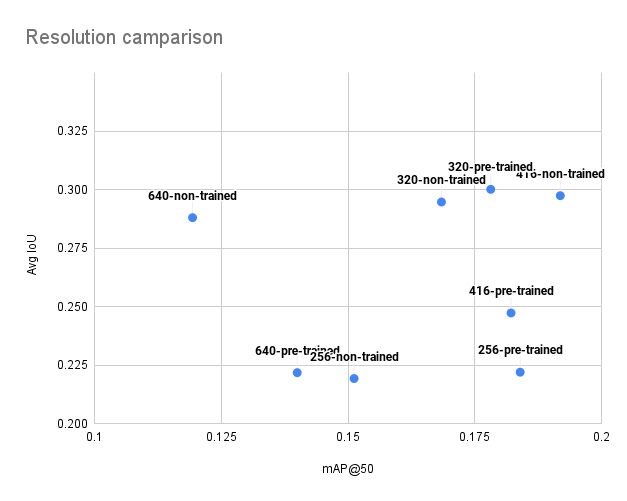
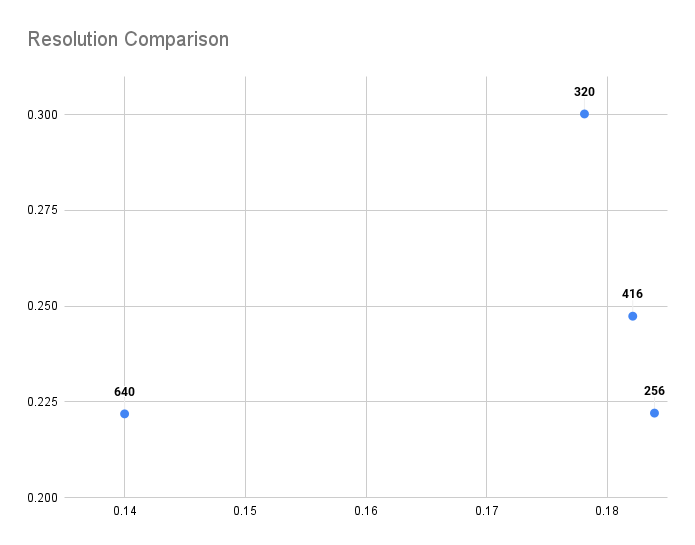
updated charts

diff --git a/README.md b/README.md
@@ -23,14 +23,31 @@ Evaluating the effect of resolution on the performance of the model
 | Tiny  | 416 | 64 | 16 | Yes | 0.36 | 0.10 | 0.16 | 0.1821 | 0.2474 | [terminal](trainOutput/yolov4-tiny-pretrained-colab-416.png) |
 | Tiny  | 320 | 64 | 16 | Yes | 0.45 | 0.14 | 0.22 | 0.1781 | 0.3002 | [terminal](trainOutput/yolov4-tiny-pretrained-colab-320.png) |
 | Tiny  | 256 | 64 | 16 | Yes | 0.33 | 0.09 | 0.15 | 0.1839 | 0.2221 | [terminal](trainOutput/yolov4-tiny-pretrained-colab-256.png) |
-| Tiny  | 640 | 64 | 16 | No  | 0.43 | 0.10 | 0.17 | 0.1194 | 0.2881 | [terminal](trainOutput/yolov4-tiny-no-pretrained-colab-640.png) |
-| Tiny  | 416 | 64 | 16 | No  | 0.45 | 0.10 | 0.16 | 0.1918 | 0.2978 | [terminal](trainOutput/yolov4-tiny-no-pretrained-colab-416.png) |
-| Tiny  | 320 | 64 | 16 | No  | 0.43 | 0.12 | 0.18 | 0.1684 | 0.2948 | [terminal](trainOutput/yolov4-tiny-no-pretrained-colab-320.png) |
-| Tiny  | 256 | 64 | 16 | No  | 0.33 | 0.10 | 0.15 | 0.1512 | 0.2194 | [terminal](trainOutput/yolov4-tiny-no-pretrained-colab-256.png) |
 
 ![Image](trainOutput/resolution-comparison.png)
 
-## Comparison of Models (Trained on Google Colab with nvidia P100 and V100 and rtx2080)
+<br>
+
+## Comparison of use of Weights 
+
+Evaluating the effect of resolution on the performance of the model
+
+| Model | Reso lution | Batch | Sub divisions | Pre trained | Precision | Recall | F1 score | mAP @0.5 | Avg IoU | Output |
+| ----- | ----------- | ----- | ------------- |------------ |---------- |------- |--------- | -------- | ------- | ------ |
+| Tiny  | 640 | 64 | 16 | Yes | 0.33 | 0.07 | 0.12 | 0.1400 | 0.2219 | [terminal](trainOutput/yolov4-tiny-pretrained-colab-640.png) |
+| Tiny  | 640 | 64 | 16 | No  | 0.43 | 0.10 | 0.17 | 0.1194 | 0.2881 | [terminal](trainOutput/yolov4-tiny-no-pretrained-colab-640.png) |
+| Tiny  | 416 | 64 | 16 | Yes | 0.36 | 0.10 | 0.16 | 0.1821 | 0.2474 | [terminal](trainOutput/yolov4-tiny-pretrained-colab-416.png) |
+| Tiny  | 416 | 64 | 16 | No  | 0.45 | 0.10 | 0.16 | 0.1918 | 0.2978 | [terminal](trainOutput/yolov4-tiny-no-pretrained-colab-416.png) |
+| Tiny  | 320 | 64 | 16 | Yes | 0.45 | 0.14 | 0.22 | 0.1781 | 0.3002 | [terminal](trainOutput/yolov4-tiny-pretrained-colab-320.png) |
+| Tiny  | 320 | 64 | 16 | No  | 0.43 | 0.12 | 0.18 | 0.1684 | 0.2948 | [terminal](trainOutput/yolov4-tiny-no-pretrained-colab-320.png) |
+| Tiny  | 256 | 64 | 16 | Yes | 0.33 | 0.09 | 0.15 | 0.1839 | 0.2221 | [terminal](trainOutput/yolov4-tiny-pretrained-colab-256.png) |
+| Tiny  | 256 | 64 | 16 | No  | 0.33 | 0.10 | 0.15 | 0.1512 | 0.2194 | [terminal](trainOutput/yolov4-tiny-no-pretrained-colab-256.png) |
+
+![Image](trainOutput/weight-comparison.png)
+
+<br>
+
+## Comparison of Models
 
 All the values range between 0 - 1
 
@@ -47,6 +64,20 @@ All the values range between 0 - 1
 | yolov4-p5          | 896 | 16 | 8 | Yes | 0.68 | 0.41 | 0.51 | 0.3619 | 0.5559 | [terminal](trainOutput/yolov4-p5-pretrained-896.png) |
 
 ![Image](trainOutput/model-comparison.png)
+
+<br>
+
+## Comparison of Batch size and subdivision size
+
+All the values range between 0 - 1
+
+| Model | Reso lution | Batch | Sub divisions | Pre trained | Precision | Recall | F1 score | mAP @0.5 | Avg IoU | Output |
+| ----- | ----------- | ----- | ------------- |------------ |---------- |------- |--------- | -------- | ------- | ------ |
+| yolov4-tiny  | 416 | 16 | 8  | Yes | 0.21 | 0.08 | 0.11 | 0.1080 | 0.1422 | [terminal](trainOutput/yolov4-tiny-pretrained-416.png) |
+| yolov4-tiny  | 416 | 64 | 16 | Yes | 0.36 | 0.10 | 0.16 | 0.1821 | 0.2474 | [terminal](trainOutput/yolov4-tiny-pretrained-colab-416.png) |
+
+
+![Image](trainOutput/batch_subdivision-comparison.png)
 
 <br>
 
